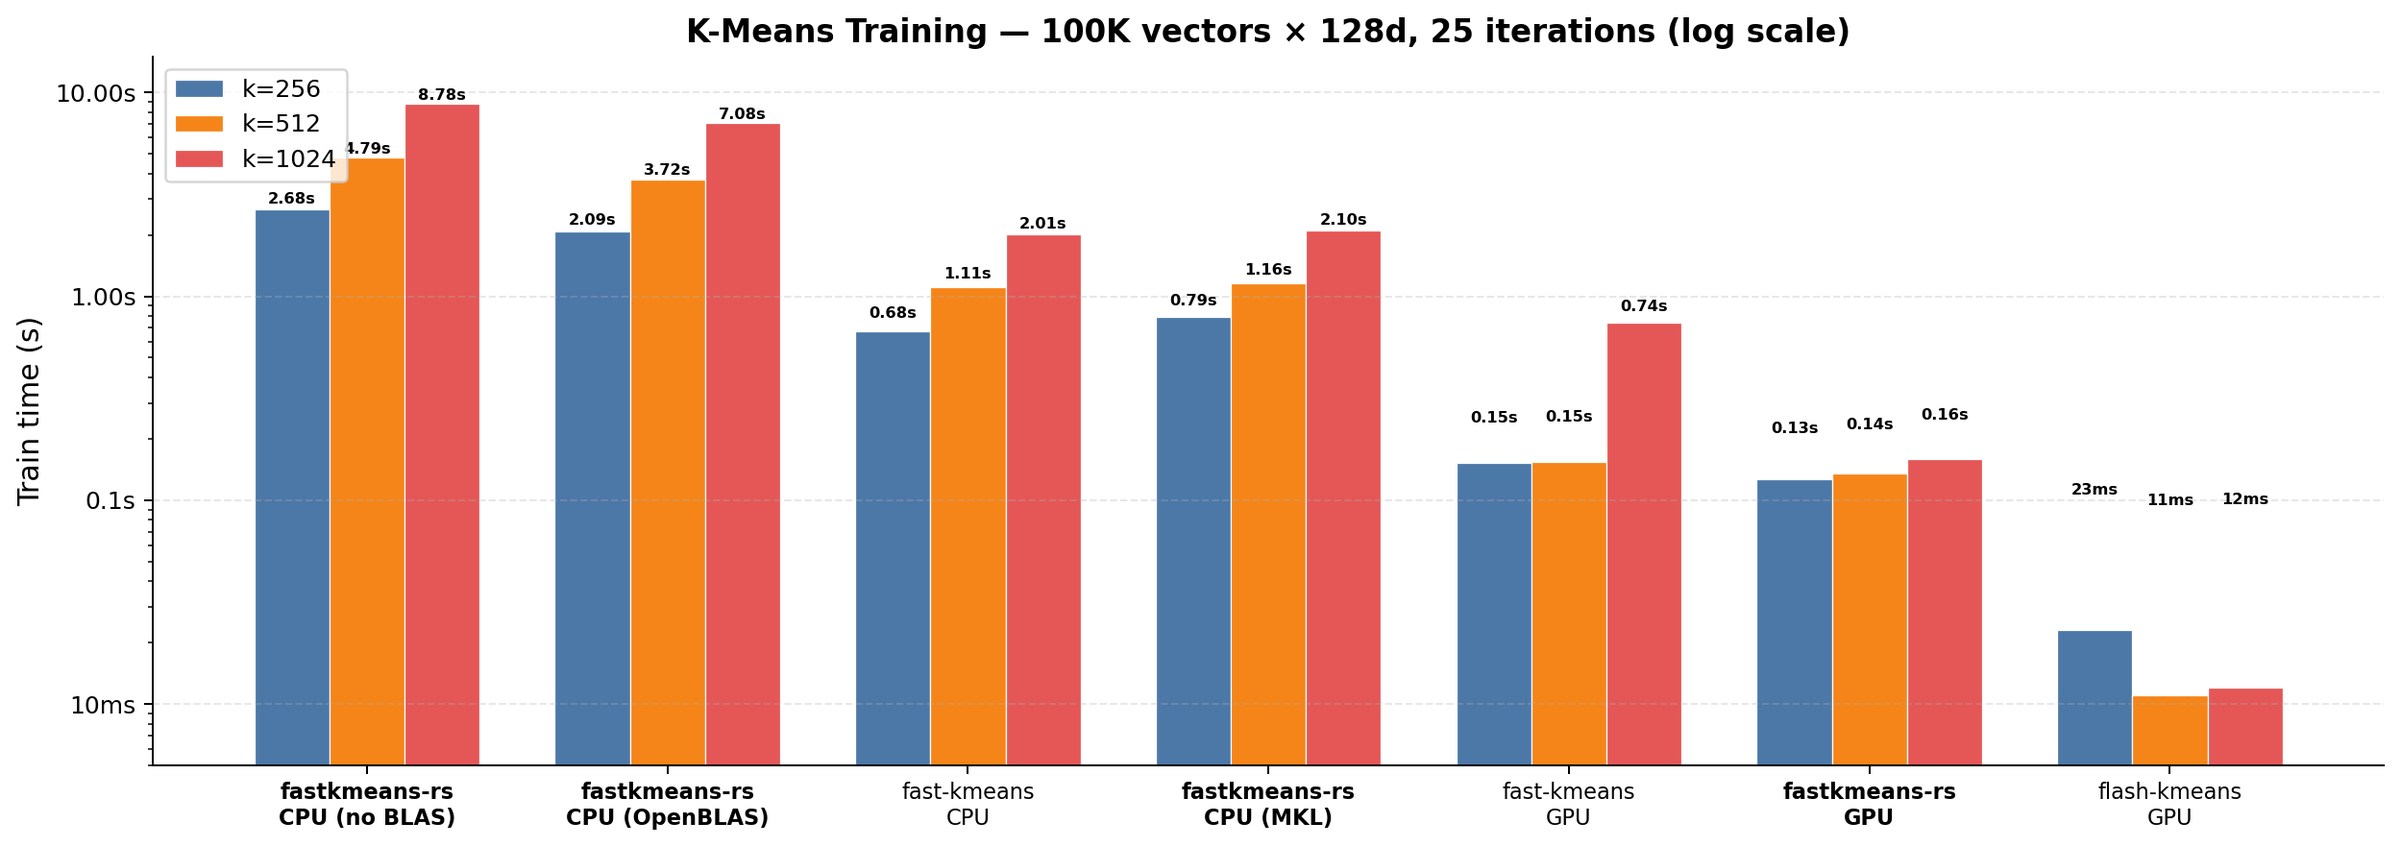
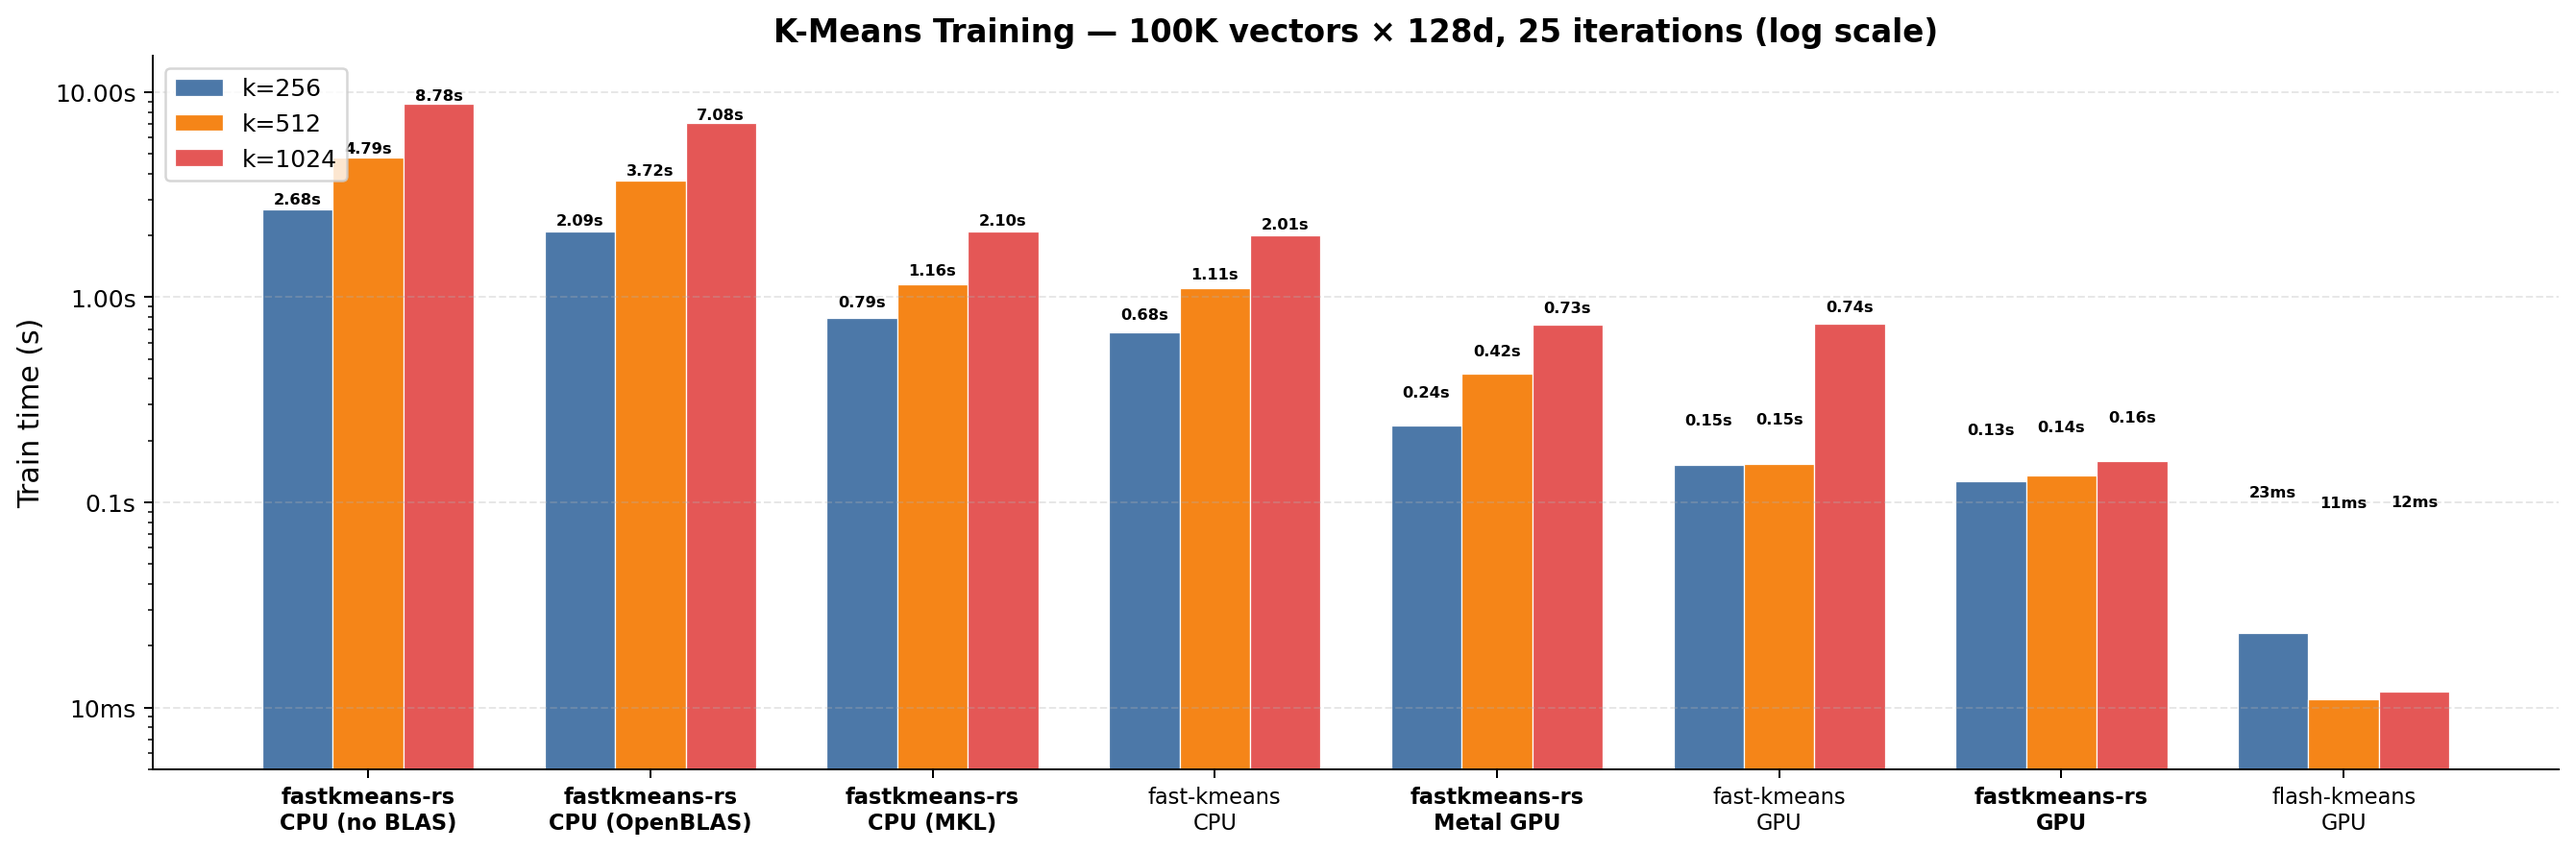
Add Metal GPU benchmarks to chart and bump to v1.0.0
Add Apple Silicon Metal GPU results to the benchmark comparison chart
and include bench_apple example for reproducibility.

diff --git a/examples/bench_apple.rs b/examples/bench_apple.rs
@@ -1,0 +1,62 @@
+//! Benchmark: fastkmeans-rs on Apple Silicon (Accelerate CPU + Metal GPU)
+//!
+//! Run with: cargo run --example bench_apple --release --features "metal_gpu,accelerate"
+
+use fastkmeans_rs::{FastKMeans, KMeansConfig};
+use ndarray::Array2;
+use ndarray_rand::rand_distr::Uniform;
+use ndarray_rand::RandomExt;
+use std::time::Instant;
+
+#[cfg(feature = "metal_gpu")]
+use fastkmeans_rs::metal_gpu::FastKMeansMetal;
+
+fn main() {
+    println!("=== fastkmeans-rs Apple Benchmark ===");
+    println!("100K vectors, 128d, 25 iterations, seed=42, no subsampling\n");
+
+    for k in [256, 512, 1024] {
+        let data = Array2::random((100_000, 128), Uniform::new(-1.0f32, 1.0));
+
+        // CPU with Accelerate
+        let config = KMeansConfig::new(k)
+            .with_seed(42)
+            .with_max_iters(25)
+            .with_max_points_per_centroid(None)
+            .with_verbose(false);
+
+        let mut kmeans = FastKMeans::with_config(config);
+        let start = Instant::now();
+        kmeans.train(&data.view()).unwrap();
+        let cpu_time = start.elapsed().as_secs_f64();
+
+        // Metal GPU
+        #[cfg(feature = "metal_gpu")]
+        {
+            let metal_config = KMeansConfig::new(k)
+                .with_seed(42)
+                .with_max_iters(25)
+                .with_max_points_per_centroid(None)
+                .with_verbose(false);
+
+            let mut metal_kmeans = FastKMeansMetal::with_config(metal_config).unwrap();
+            let start = Instant::now();
+            metal_kmeans.train(&data.view()).unwrap();
+            let metal_time = start.elapsed().as_secs_f64();
+
+            let speedup = cpu_time / metal_time;
+            println!(
+                "k={:<5} CPU(Accelerate): {:.3}s  Metal GPU: {:.3}s  Speedup: {:.2}x",
+                k, cpu_time, metal_time, speedup
+            );
+        }
+
+        #[cfg(not(feature = "metal_gpu"))]
+        {
+            println!(
+                "k={:<5} CPU(Accelerate): {:.3}s  (Metal GPU not enabled)",
+                k, cpu_time
+            );
+        }
+    }
+}

diff --git a/benches/plot_benchmark.py b/benches/plot_benchmark.py
@@ -3,22 +3,24 @@
 import matplotlib.pyplot as plt
 import numpy as np
 
-# Data: train time in seconds for 100K vectors, 128d, 25 iterations, H100
+# Data: train time in seconds for 100K vectors, 128d, 25 iterations
+# H100 for CUDA/GPU backends, Apple Silicon for Metal GPU
 # Ordered slowest to fastest (by k=256 time)
 backends = [
     "fastkmeans-rs\nCPU (no BLAS)",
     "fastkmeans-rs\nCPU (OpenBLAS)",
-    "fast-kmeans\nCPU",
     "fastkmeans-rs\nCPU (MKL)",
+    "fast-kmeans\nCPU",
+    "fastkmeans-rs\nMetal GPU",
     "fast-kmeans\nGPU",
     "fastkmeans-rs\nGPU",
     "flash-kmeans\nGPU",
 ]
 
 data = {
-    256:  [2.678, 2.089, 0.677, 0.790, 0.152, 0.127, 0.023],
-    512:  [4.788, 3.723, 1.108, 1.162, 0.154, 0.135, 0.011],
-    1024: [8.784, 7.078, 2.010, 2.096, 0.741, 0.159, 0.012],
+    256:  [2.678, 2.089, 0.790, 0.677, 0.237, 0.152, 0.127, 0.023],
+    512:  [4.788, 3.723, 1.162, 1.108, 0.423, 0.154, 0.135, 0.011],
+    1024: [8.784, 7.078, 2.096, 2.010, 0.735, 0.741, 0.159, 0.012],
 }
 
 colors = {
@@ -27,7 +29,7 @@ colors = {
     1024: "#E45756",
 }
 
-fig, ax = plt.subplots(figsize=(14, 5))
+fig, ax = plt.subplots(figsize=(15, 5))
 
 n_backends = len(backends)
 n_ks = len(data)

diff --git a/README.md b/README.md
@@ -88,7 +88,7 @@ Train **100K vectors, 128 dimensions**, 25 iterations.
 
 ![Benchmark](assets/benchmark.png)
 
-> Compared against [fast-kmeans](https://github.com/AnswerDotAI/fastkmeans) and [flash-kmeans](https://github.com/svg-project/flash-kmeans) (optimized Triton kernels). fastkmeans-rs CUDA is pure Rust with no Python dependency.
+> Compared against [fast-kmeans](https://github.com/AnswerDotAI/fastkmeans) and [flash-kmeans](https://github.com/svg-project/flash-kmeans) (optimized Triton kernels). CUDA/GPU benchmarks on H100, Metal GPU on Apple Silicon. fastkmeans-rs is pure Rust with no Python dependency.
 
 <br>
 
